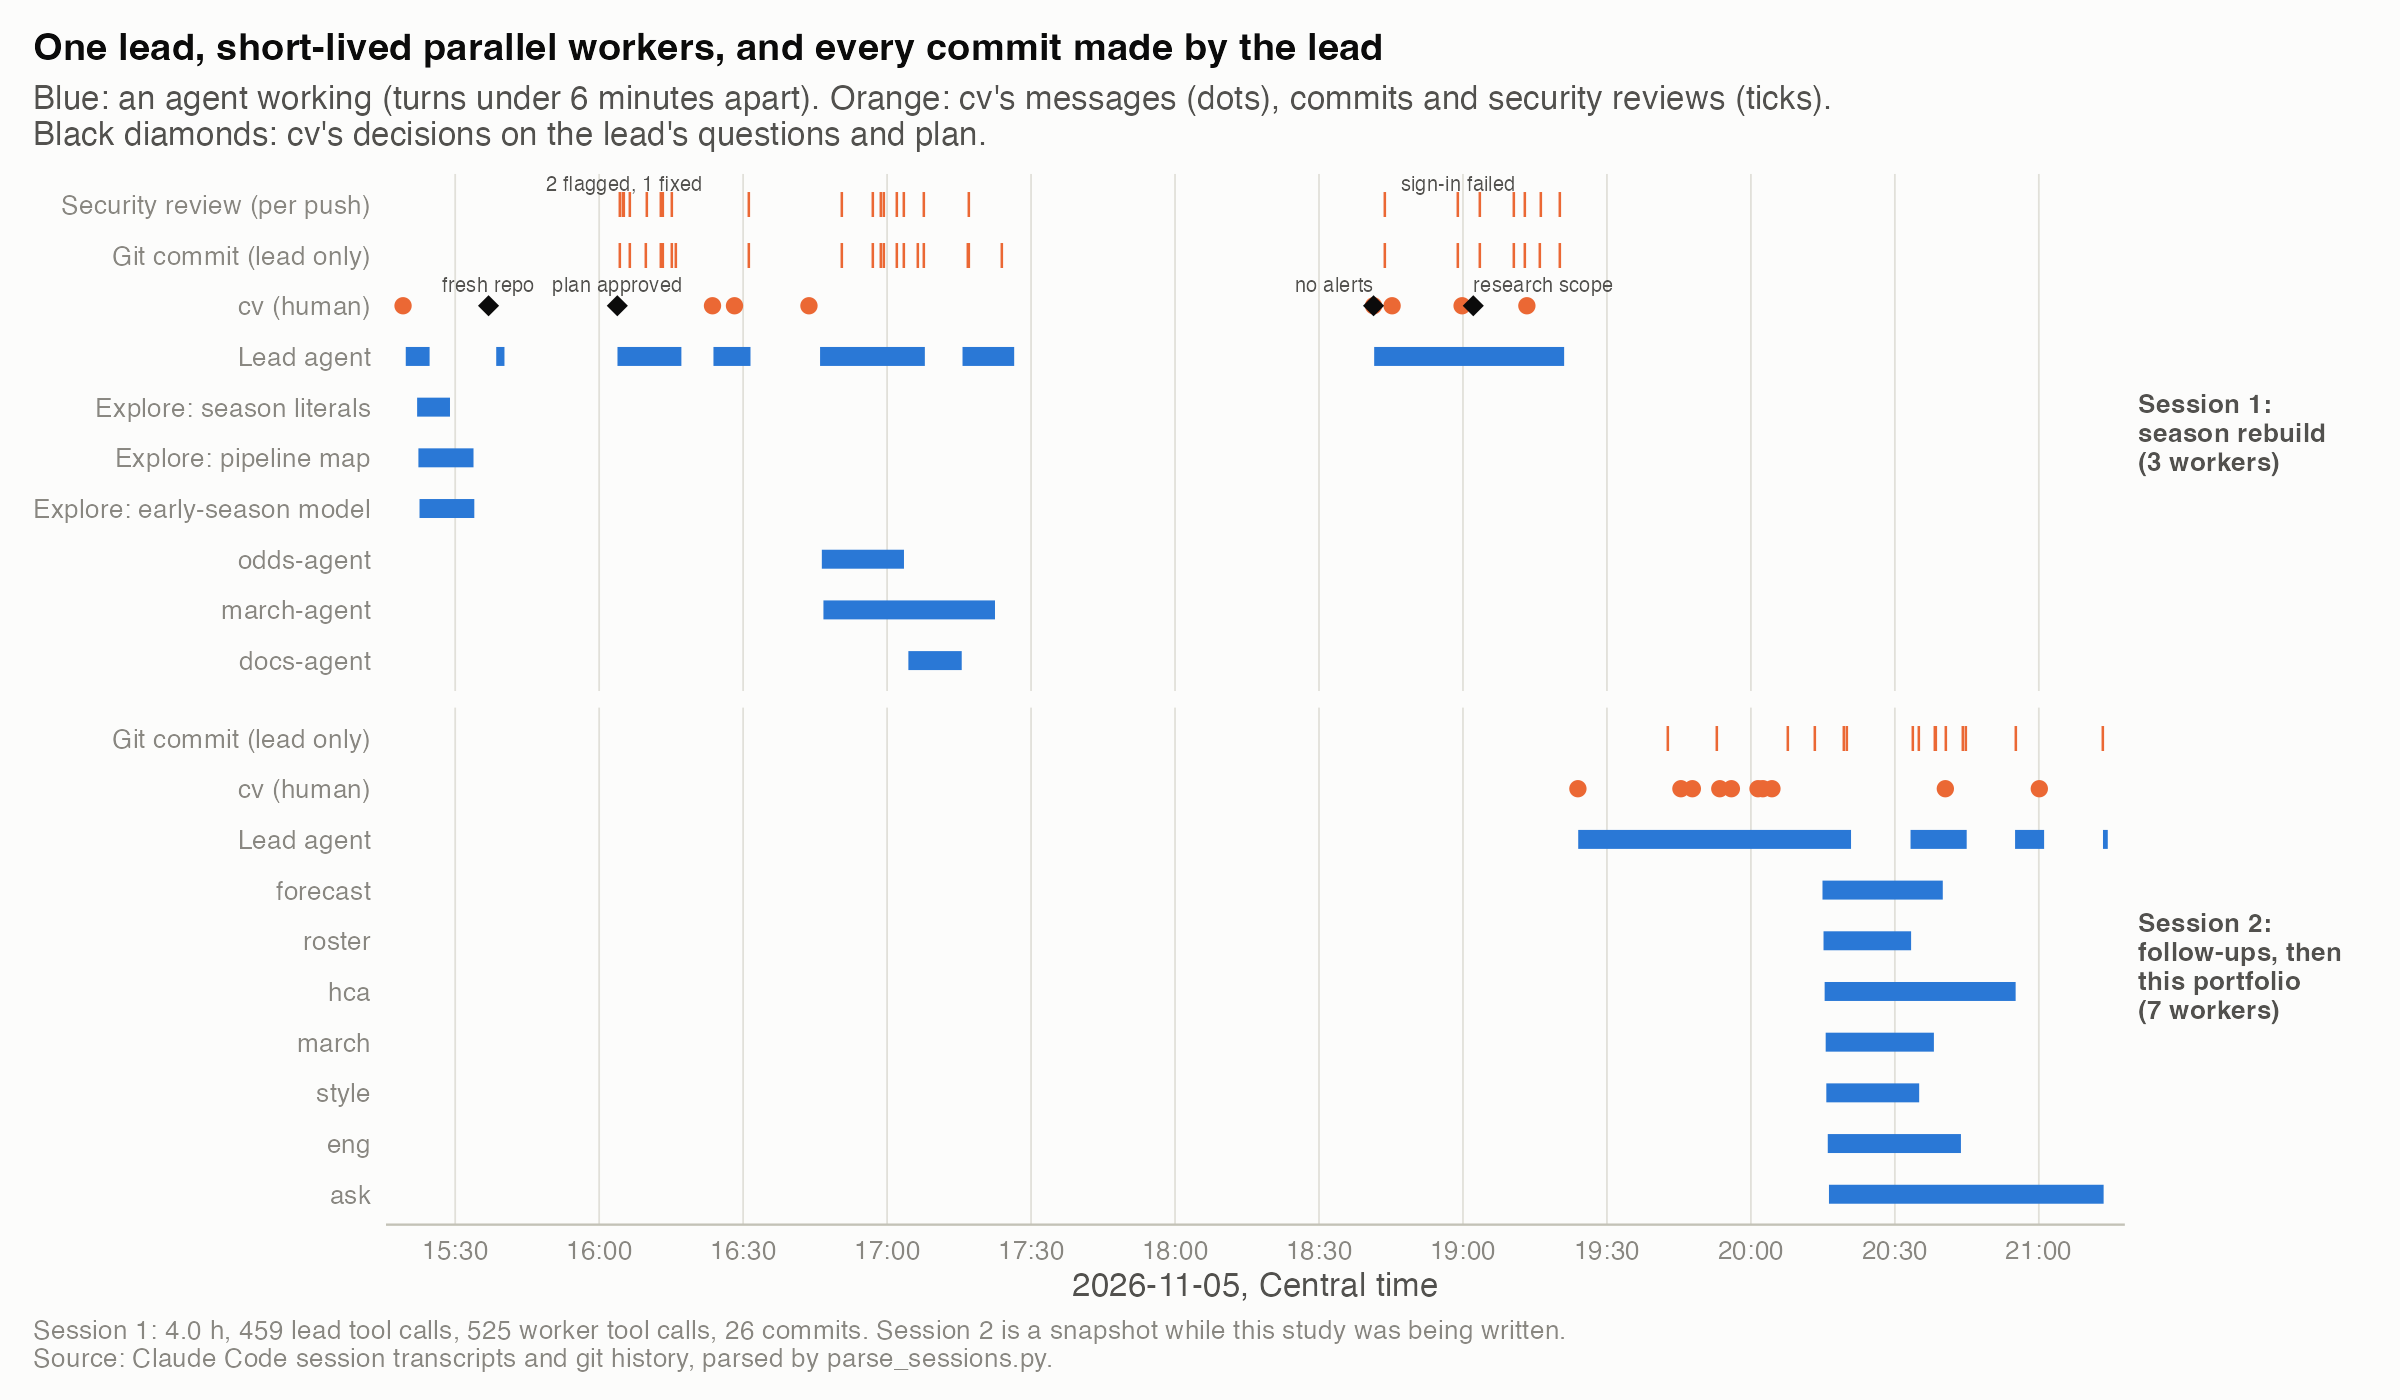
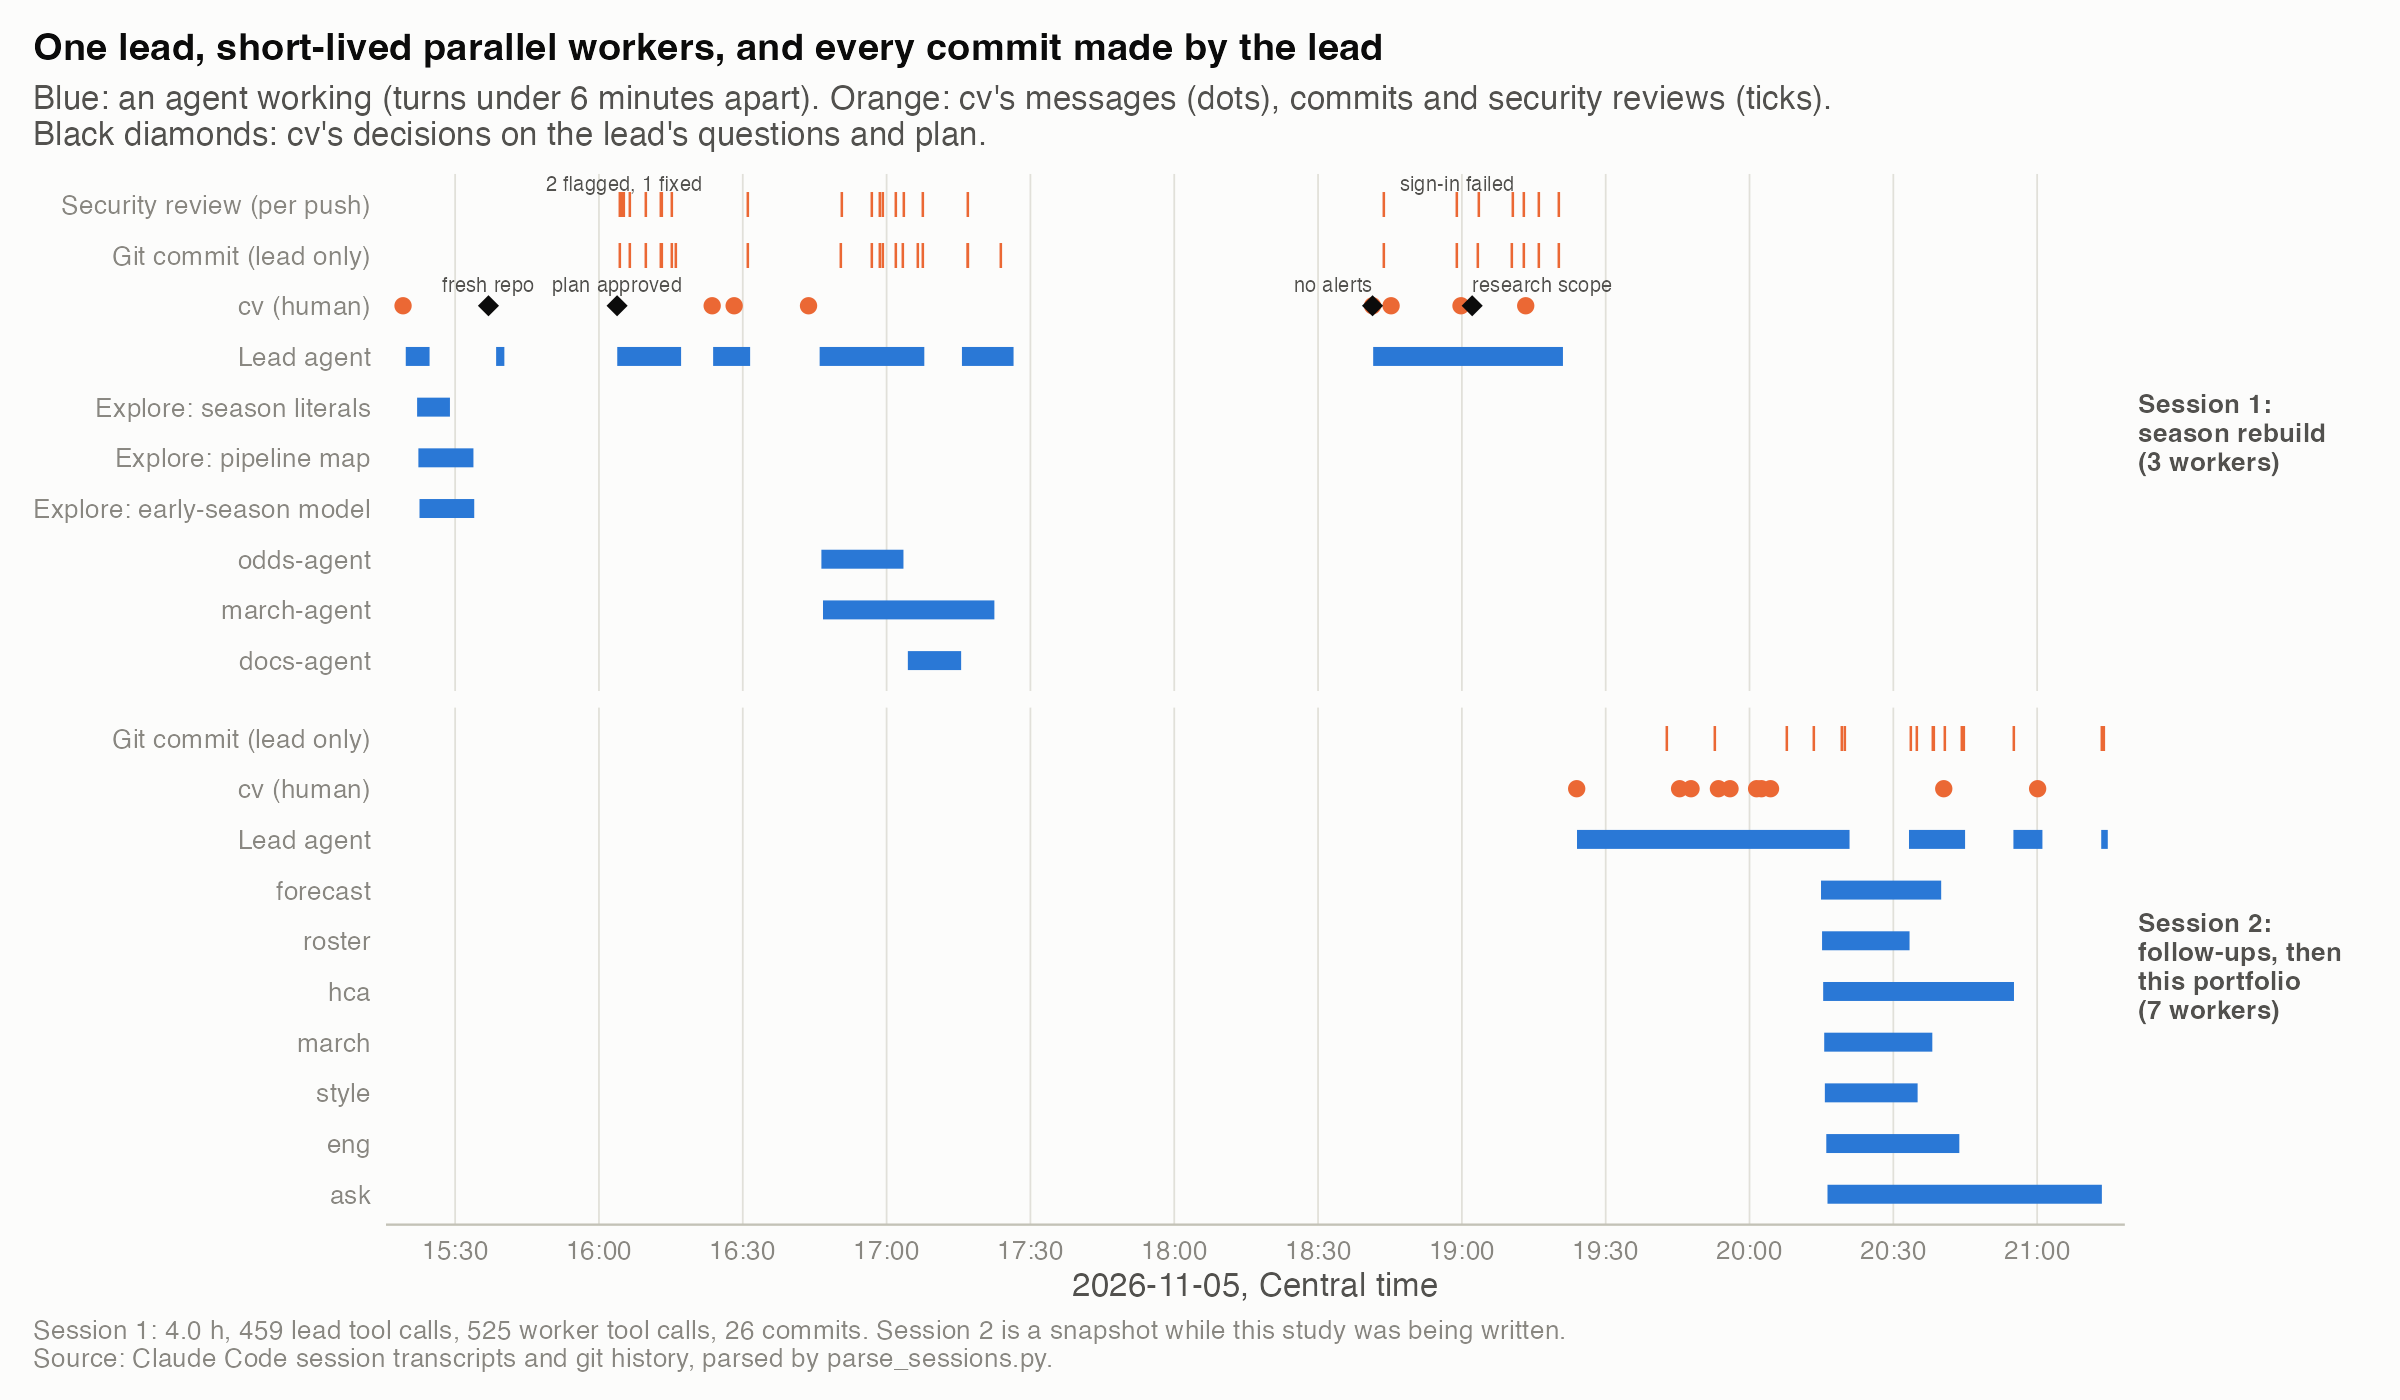
README hub and GUIDE; home-relative default paths; study 11 refreshed

diff --git a/studies/11-built-with-ai-agents/parse_sessions.py b/studies/11-built-with-ai-agents/parse_sessions.py
@@ -18,8 +18,8 @@ from datetime import datetime, timedelta, timezone
 
 OUT = sys.argv[1] if len(sys.argv) > 1 else "."
 PROJ = os.environ.get("CLAUDE_PROJECTS", os.path.expanduser("~/.claude/projects"))
-PIPE = os.environ.get("NCAAB_PIPELINE_DIR", "/Users/cv/projects/ncaab_2027")
-PORT = os.environ.get("PORTFOLIO_DIR", "/Users/cv/projects/portfolio/ncaab-analytics-case-studies")
+PIPE = os.environ.get("NCAAB_PIPELINE_DIR", os.path.expanduser("~/projects/ncaab_2027"))
+PORT = os.environ.get("PORTFOLIO_DIR", os.path.expanduser("~/projects/portfolio/ncaab-analytics-case-studies"))
 CT = timezone(timedelta(hours=-6))  # CST; DST ended 2026-11-01
 
 SESSIONS = {

diff --git a/studies/09-joining-four-data-sources/resolve_ablation.py b/studies/09-joining-four-data-sources/resolve_ablation.py
@@ -13,7 +13,7 @@ import random
 import sqlite3
 import sys
 
-PIPE = os.environ.get("NCAAB_PIPELINE_DIR", "/Users/cv/projects/ncaab_2027")
+PIPE = os.environ.get("NCAAB_PIPELINE_DIR", os.path.expanduser("~/projects/ncaab_2027"))
 sys.path.insert(0, os.path.join(PIPE, "scripts"))
 import fetch_kenpom as fk  # noqa: E402
 

diff --git a/README.md b/README.md
@@ -1,3 +1,51 @@
-# College basketball analytics case studies
+# College basketball, studied carefully: 13 analytics case studies
 
-Work in progress (2026-11-05).
+Each study asks one question about men's college basketball, answers it up front with a number and its uncertainty, and shows the checks behind it. Most run on public ESPN data, so anyone can rerun them. The aim is the habits that matter in any data job:
+- forecasts scored with proper rules
+- no look-ahead
+- held-out tests
+- honest null results
+- pipelines that fail loudly instead of quietly
+
+There are no picks and no betting content here. Where the betting market appears, it is treated as what it is: the toughest public forecast to measure against.
+
+**By Christian Verdin.** [GitHub](https://github.com/ChristianVerdin) · [LinkedIn](https://www.linkedin.com/in/christian-verdin/)
+
+## Where to start
+| If you're hiring for | Read these first | What they show |
+|---|---|---|
+| **Data science** | [02](studies/02-judging-forecasts), [05](studies/05-rest-as-a-natural-experiment), [03](studies/03-the-transfer-portal-era) | Calibration and scoring rules, a natural experiment with an independent replication, a holdout-validated model built from 2 million records |
+| **Analytics** | [13](studies/13-weekly-state-of-the-season), [04](studies/04-home-court-advantage), [06](studies/06-forty-one-years-of-march) | A recurring report a non-specialist can read, a 25-season trend with a natural experiment, a clear answer to a question everyone argues about |
+| **AI engineering** | [12](studies/12-ask-the-season), [11](studies/11-built-with-ai-agents), [09](studies/09-joining-four-data-sources) | An MCP server with an LLM evaluation, multi-agent work with guardrails, entity resolution across four sources |
+| **Analytics or data science management** | [01](studies/01-auditing-an-inherited-model), [10](studies/10-running-a-model-in-production), [11](studies/11-built-with-ai-agents) | Auditing an inherited model and ranking its defects by harm, monitoring that is tested for false alarms, running a team of agents with clear gates |
+
+## The studies
+| # | Question | Answer | Methods |
+|---|---|---|---|
+| [01](studies/01-auditing-an-inherited-model) | What was wrong with last season's model? | Seven defects, two of them severe, and none visible in the headline numbers. Away-favorite forecasts claimed 71% and won 61% (95% CI 58% to 63%), while the season-wide average looked fine. | Model audit, calibration by segment, paired bootstrap, patch-vs-replace analysis |
+| [02](studies/02-judging-forecasts) | How good is a three-parameter ratings model? | It matched KenPom's own forecasts (Brier 0.1786 vs 0.1781 on 5,751 games; gap not distinguishable from zero). The betting market was better, by 0.0056 (CI 0.0021 to 0.0090). The old model lost on calibration, not on discrimination. | No-look-ahead backtest, reliability diagrams, Murphy decomposition, bootstrap CIs |
+| [03](studies/03-the-transfer-portal-era) | In the transfer-portal era, how much of a team carries over? | Returning players' share of D1 minutes fell from 66% to 34%, yet team strength carries over as before (year-to-year r 0.83 vs 0.81). A roster-aware preseason rating beats last season's rating in 12 of 12 holdout seasons. | Linking 2 million player records, feature engineering, clustered bootstrap, rolling-origin holdout |
+| [04](studies/04-home-court-advantage) | Is home-court advantage shrinking, and do crowds cause it? | It fell from 4.3 to 3.2 points over 25 seasons. Empty arenas in 2020-21 cut it by 1.3 points, but within the same home team the drop is 0.5 and uncertain. | Ridge ratings, bootstrap, natural experiment, fixed effects, placebo tests, literature comparison |
+| [05](studies/05-rest-as-a-natural-experiment) | Does playing yesterday cost a team? | Yes, about 1.5 points (95% CI 0.9 to 2.1, 5,034 conference-tournament games). A production adjustment that pointed the wrong way was replaced with this estimate. | Natural experiment, independent replication on private ratings, leave-one-season-out scoring |
+| [06](studies/06-forty-one-years-of-march) | What do 2,644 tournament games say about seeds and upsets? | 8 vs 9 is a coin flip (47%), and upsets are not becoming more common. Ratings beat the seed line only slightly (Brier 0.187 vs 0.194). The new 76-team field gives the added teams a 0.03% title chance. | Jeffreys intervals, exact bracket probabilities by dynamic programming, Monte Carlo, scenario analysis |
+| [07](studies/07-team-archetypes) | What kinds of teams are there, and does style matter in March? | There are no natural style clusters, but four archetypes are reproducible (bootstrap ARI 0.83). None wins more March games than its quality predicts (pre-specified test, p = 0.48). | k-means against a null reference, bootstrap stability, PCA, permutation test, power analysis |
+| [08](studies/08-luck-and-regression-to-the-mean) | Is winning close games a skill? | No measurable amount. Close-game records correlate 0.01 from one half-season to the next, against 0.52 for point margin. The luckiest tenth of teams falls from +2.0 wins to +0.1. | Split-half reliability, variance decomposition against chance, calibration fix found and disclosed |
+| [09](studies/09-joining-four-data-sources) | How often does joining four data sources go wrong? | A third of team names differ across sources. Last season, 6 teams' ratings went to the wrong team without an error. Two guards now stop all six, one of them added the night this study found the gap. | Entity resolution, ablation, threshold sweep, SQL type semantics |
+| [10](studies/10-running-a-model-in-production) | What would monitoring have caught? | Four alert rules, fixed in advance, flag last season's calibration defect in week two of a replay. Simulating clean seasons showed one rule would false-alarm in 21% of them. | Monitoring design, simulated false-alarm rates, architecture and failure modes |
+| [11](studies/11-built-with-ai-agents) | Can parallel AI agents do real pipeline work without losing control? | A lead and six helpers rebuilt a season pipeline in four hours: 26 commits, 26 bugs fixed. No helper commits, and no file edits outside a helper's brief. | Multi-agent orchestration, guardrails, transcript analysis |
+| [12](studies/12-ask-the-season) | Can an LLM answer plain-English questions about a season correctly? | Yes, with the right context. With only the database schema, Claude Haiku 4.5 answered 9 of 19 held-out questions; with column notes, rules and examples tuned on a separate dev set, 18 of 19 (9 gained, 0 lost, McNemar p = 0.004). The whole evaluation cost $0.28. | Zero-dependency MCP server, text-to-SQL, held-out evaluation, McNemar test, cost tracking |
+| [13](studies/13-weekly-state-of-the-season) | What does an honest weekly briefing look like? | One script turns a season's box scores into a dated report: top 25 and movers, efficiency, luck and conference strength. It runs every Monday on the live season. | Automated reporting, metric design, defensive engineering |
+
+## How it's built
+- **One shared data layer** (`R/data.R`) loads and caches 25 seasons of public ESPN data through [hoopR](https://hoopr.sportsdataverse.org): about 142,000 games, 222,000 team box scores and 2 million player box scores.
+- **One public rating model** (`R/ratings.R`): ridge least squares on game margins, with home-court advantage, and with a `before =` argument that makes look-ahead impossible. It is tested on simulated data.
+- **One chart theme** with a color palette checked for color-vision deficiency. Every chart has a matching CSV of its numbers.
+- **One rule for what can be published** (`scripts/check_public.sh`, run before every push). No data files, no licensed ratings or market columns, no secrets and no betting language.
+
+How to read, rerun and extend the studies: [GUIDE.md](GUIDE.md).
+
+## Data and licensing
+- **Code:** MIT.
+- **Public data:** game and player data come from ESPN through the sportsdataverse's hoopR package and are downloaded at run time, not stored here.
+- **Licensed data:** studies 01, 02, 05, 06 and 10 also use data from a private pipeline: KenPom ratings and forecasts, market lines and historical brackets. They publish only aggregate results and figures, never the underlying data. Where possible, a public-data version of the same analysis is included.
+- Team names are ESPN's.

diff --git a/GUIDE.md b/GUIDE.md
@@ -1,0 +1,58 @@
+# Guide: reading, running and extending these studies
+
+This guide is for anyone who wants to check the work, rerun it, or build on it: a reviewer, a hiring manager's technical screener, or a student.
+
+## 1. How each study is laid out
+Every study lives in `studies/NN-slug/`:
+
+| File | What it is |
+|---|---|
+| `README.md` | The write-up. The answer comes first, then the data, method, findings, how I checked them, limitations and next steps. |
+| `analysis.R` (or `.py`) | The script that produces every number and figure in the write-up. |
+| `figures/*.png` | The charts. Each chart's title states its finding. |
+| `results/*.csv` | The numbers behind each chart: aggregates only, so you can check a figure without rerunning anything. |
+
+Read a study in this order: the bold answer at the top, the figures, then "How I checked it" and "Limitations". Those last two sections are where most of the judgment is.
+
+## 2. Running the studies
+Requirements: R 4.3 or newer, and Python 3.11+ (standard library, pandas and numpy) for the helper scripts in studies 01, 02, 05, 09, 11 and 12.
+
+```bash
+git clone https://github.com/ChristianVerdin/ncaab-analytics-case-studies && cd ncaab-analytics-case-studies
+Rscript install.R                 # R packages
+Rscript scripts/warm_cache.R      # downloads ~25 seasons of public ESPN data into data/ (about a minute)
+Rscript tests/test_ratings.R      # prints "ok"
+Rscript studies/04-home-court-advantage/analysis.R
+```
+
+Everything runs from the repo root. Downloads are cached in `data/cache/`, which isn't tracked by git, so later runs work offline.
+
+### Which studies need data you may not have
+Most studies use only public data: ESPN box scores and schedules through the [hoopR](https://hoopr.sportsdataverse.org) package. A few compare against KenPom ratings and forecasts, which are licensed. Those studies publish only aggregate results and figures, never the underlying ratings. Each study's "Reproduce" section says which parts need a KenPom subscription. Where possible, a public-data replication sits next to the licensed analysis (study 05 is one example).
+
+## 3. Shared building blocks
+| File | Provides |
+|---|---|
+| `R/data.R` | `cbb_games()`, `cbb_team_box()`, `cbb_player_box()`: cached, typed, one row per game, team-game or player-game. `d1_only()` keeps games between D1 teams (a team with an ESPN conference id that season). |
+| `R/ratings.R` | `fit_ratings(games, before = date)`: a ridge least-squares rating model (margin = home rating - away rating + home-court advantage). `before =` makes look-ahead impossible. `predict_margin()` gives the expected margin for any pairing. |
+| `R/theme.R` | One chart theme and a color palette that was checked for color-vision deficiency. |
+| `scripts/check_public.sh` | Run before every push. It fails on tracked data files, licensed-data columns, secrets or betting language. |
+
+Conventions:
+- Seasons are named by their ending year in code (`2026` = 2025-26) and written out in prose.
+- Ratings are in points per game against an average D1 team on a neutral floor.
+- Every estimate carries an uncertainty: a bootstrap interval or a standard error.
+
+## 4. Statistical ground rules used throughout
+- **No look-ahead.** Anything used to predict a game is computed only from games before it.
+- **Holdouts over in-sample fit.** That means leave-one-season-out, or fitting on earlier seasons and testing on later ones.
+- **Proper scoring rules for probabilities.** Brier score and log loss, with calibration shown directly. Straight-up accuracy is reported but never headlined: it rewards confident wrong answers and ignores calibration.
+- **Null results get reported.** Several studies find that an appealing idea doesn't hold up (study 05's old fatigue penalty, study 08's close-game "skill"). Those findings are as useful as the positive ones.
+- **The betting market appears only as a benchmark forecaster.** Its implied probabilities are the toughest public forecast to match. These studies contain no picks or betting advice.
+
+## 5. Extending a study
+1. Copy `studies/_TEMPLATE.md` into a new `studies/NN-slug/README.md`.
+2. Write `analysis.R` so it creates everything under `figures/` and `results/` from the cache.
+3. Run `scripts/check_public.sh` before committing.
+
+Good next questions are listed in each study's "What I'd do next" section.
